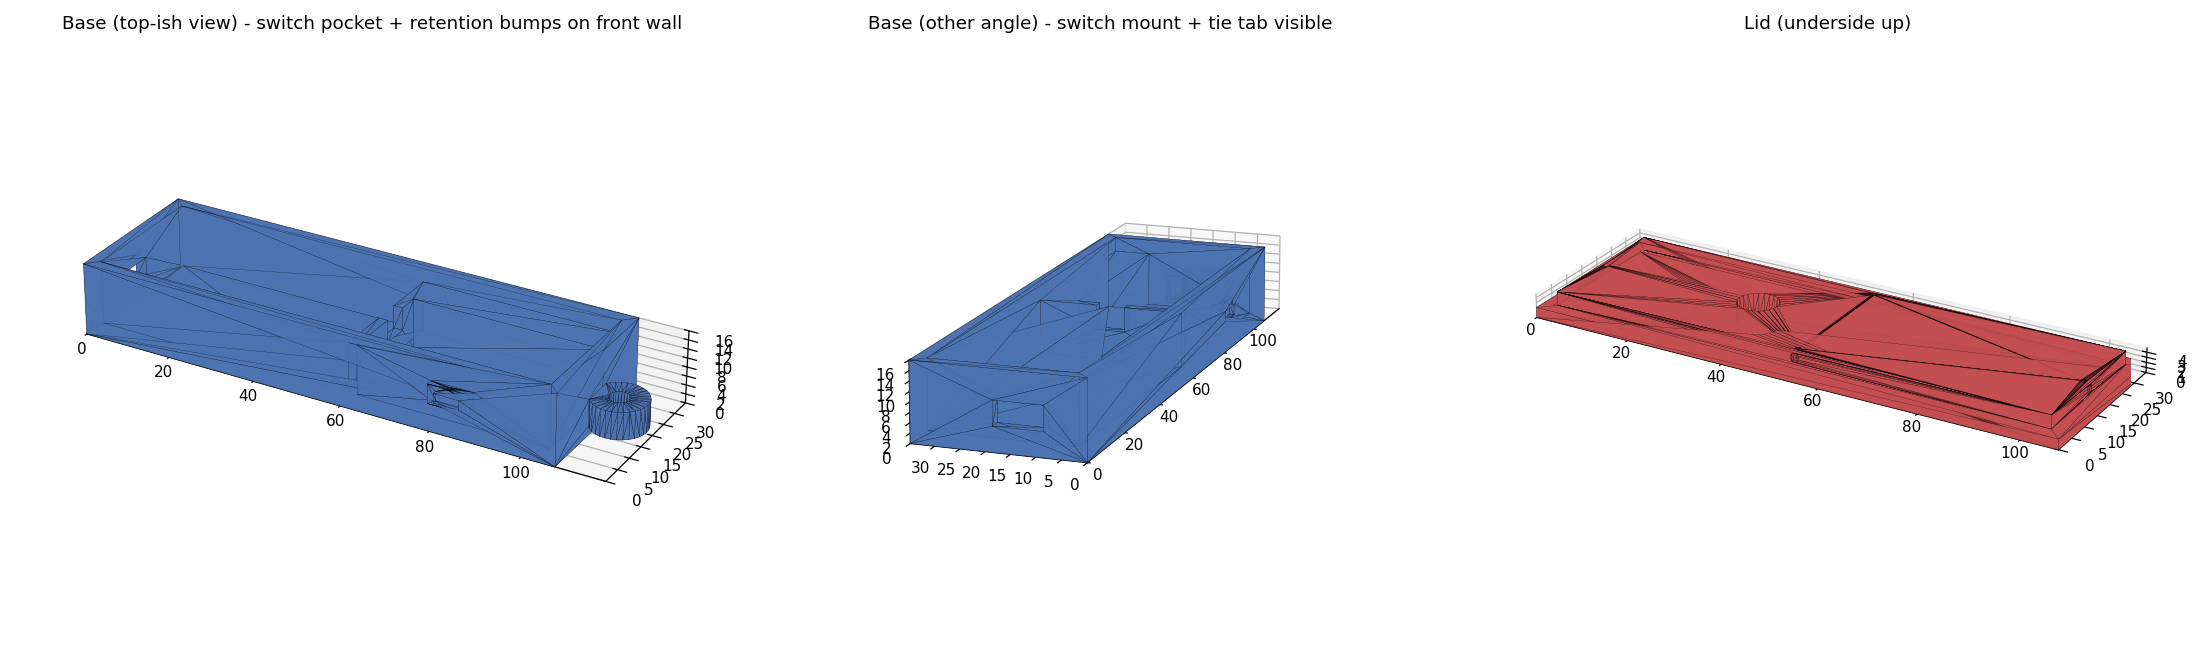
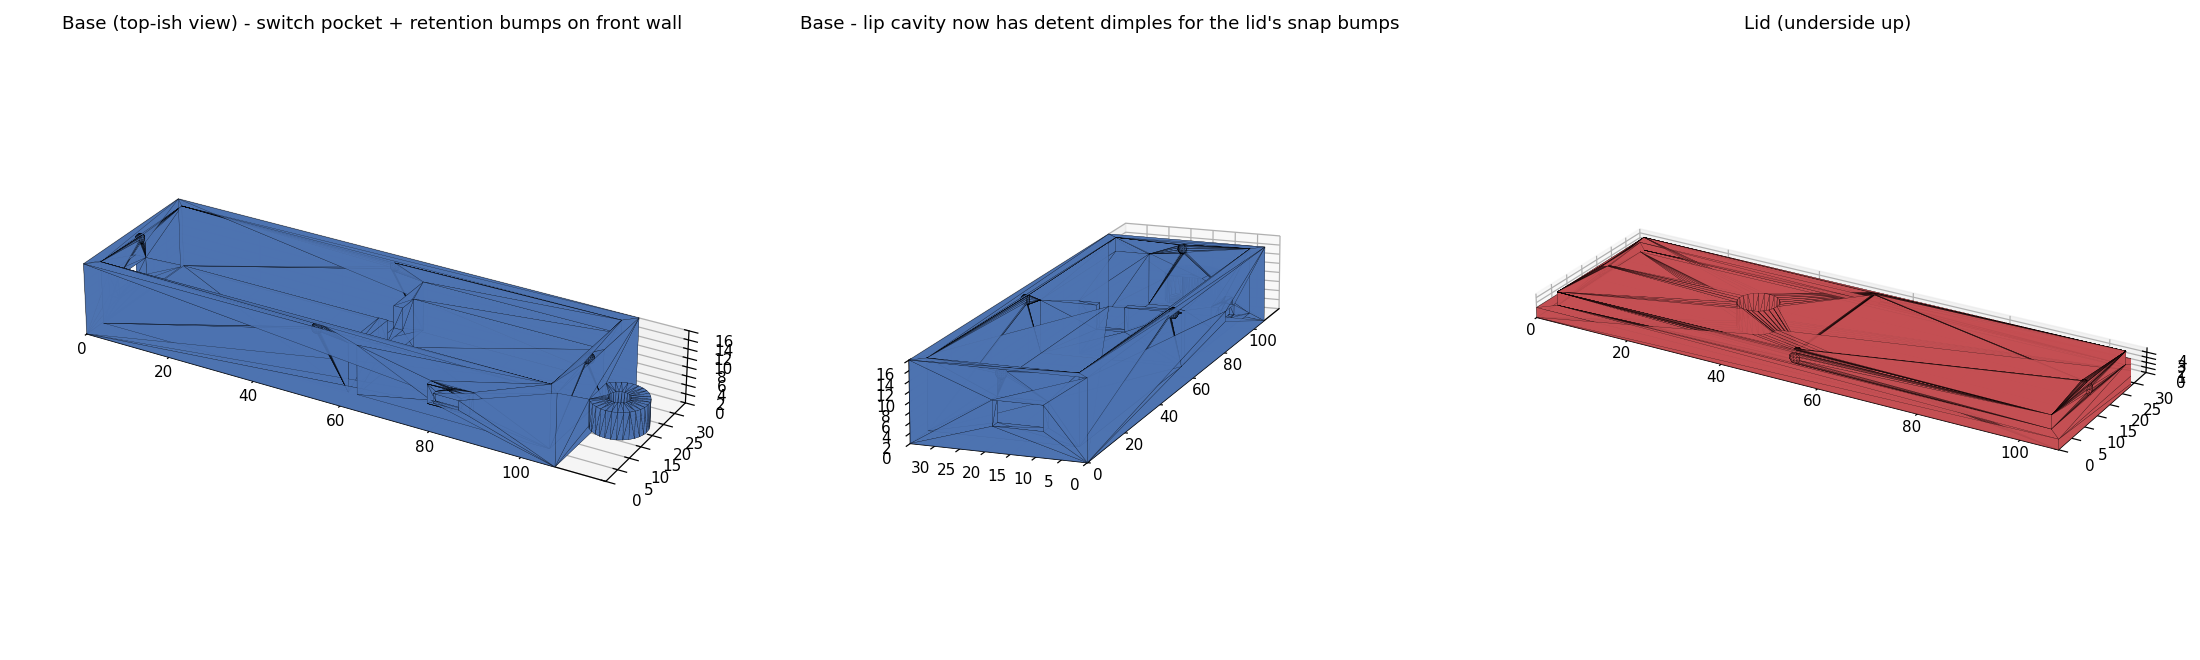
CubeCell case: give the lid a real snap detent instead of just friction
The lid went on without ever clicking. Root cause: the snap bumps only
pressed against a flat wall inside the base's lip cavity (friction only,
no groove to catch into), and the net interference was tiny - bump
protrusion (0.35mm) barely exceeded the skirt's fit clearance (0.3mm),
leaving about 0.05mm of actual squeeze once you account for the gap it
has to close first. Easy to lose entirely to ordinary FDM print
tolerance.

Fix:
- Cut a small dimple into the base's lip cavity wall for each of the 4
  bumps, positioned at the exact height the bump reaches when the lid
  bottoms out (lip_bump_z, derived from the same skirt-midpoint math the
  lid module already uses, so the two stay in sync).
- Increased bump_protrude 0.35 -> 0.5mm, raising net interference to
  0.2mm - enough to feel, with the dimple sized to comfortably swallow it
  (0.65mm recess depth).

Verified manifold on both parts via OpenSCAD's own render report and an
independent Python edge walk on the exported STLs (0 non-manifold edges,
both parts). Regenerated the preview and updated SETUP_README.md.

diff --git a/SETUP_README.md b/SETUP_README.md
@@ -170,8 +170,9 @@ The Feather build solders a spring antenna directly to a pad. CubeCell GPS inste
 
 ![Preview of the CubeCell transmitter case](enclosures/transmitter_case_cubecell_preview.png)
 
-`enclosures/transmitter_case_cubecell.scad` follows the same conventions as the Feather case: snap-lid-and-glue closure and a parachute tie tab. Three things are different because the hardware is different:
+`enclosures/transmitter_case_cubecell.scad` follows the same conventions as the Feather case: snap-lid-and-glue closure and a parachute tie tab. Four things are different because the hardware is different:
 
+- **The lid's snap bumps seat into a real detent, not just a flat wall.** Earlier versions of this case copied the Feather case's snap bumps as-is — small nubs that press against a flat wall inside the base's lip cavity with only friction holding them, and barely any interference at that (about 0.05mm after accounting for the fit clearance). It would go on but never really click. This case now cuts a small matching dimple into the lip cavity for each bump, at the exact height the bump reaches when the lid is fully seated, and gives the bumps more interference (0.2mm net instead of 0.05mm) — the bump rubs going in, then relaxes into the dimple right as the lid bottoms out, so you feel an actual click and it resists pulling back off instead of just resting there.
 - **No verified mounting-hole spec** is published for this board, so the case relies on a snug pocket fit rather than screw posts (see the comment in the file).
 - **The antenna hole is cut through the top of the lid** rather than a side wall, sized generously and centered, since a u.FL pigtail is flexible enough to reach an opening almost anywhere above the board — a deliberate choice to avoid guessing a tight side-wall position from an unverified connector location.
 - **The inline power switch mount is sized for a specific part** — an **SS12D00-G4** mini slide switch (body 8.7 x 3.7 x 3.7mm, lever 1.5 x 1.5 x 4mm, from the manufacturer's dimensioned drawing) — instead of a generic guessed cutout. It's a keyed pocket on the battery bay's front wall, centered along that bay's length: a narrow outer slot only the slide lever pokes through, and a wider pocket behind it (open to the battery bay's interior) that captures the switch body, so it can't pull back out through the narrow slot. Two small retention bumps (the same idea as the lid's snap bumps, just scaled down) protrude into the pocket from its top and bottom faces — press the switch body in from inside the case and it snaps past them with a "click" and stays put, no glue needed to keep it from rattling loose (though a dab is still fine as extra insurance). It's positioned away from the tie tab on purpose — an earlier version of this case put the switch cutout on the tie tab's end wall, which looked like a stray hole and weakened the same wall the tie tab needs to stay solid. If you use a different slide switch, resize `sw_body_l` / `sw_body_w` / `sw_body_h` / `sw_lever_w` at the top of the file to match its drawing (and check `sw_bump_r`/`sw_bump_protrude` still make sense for its body thickness).
